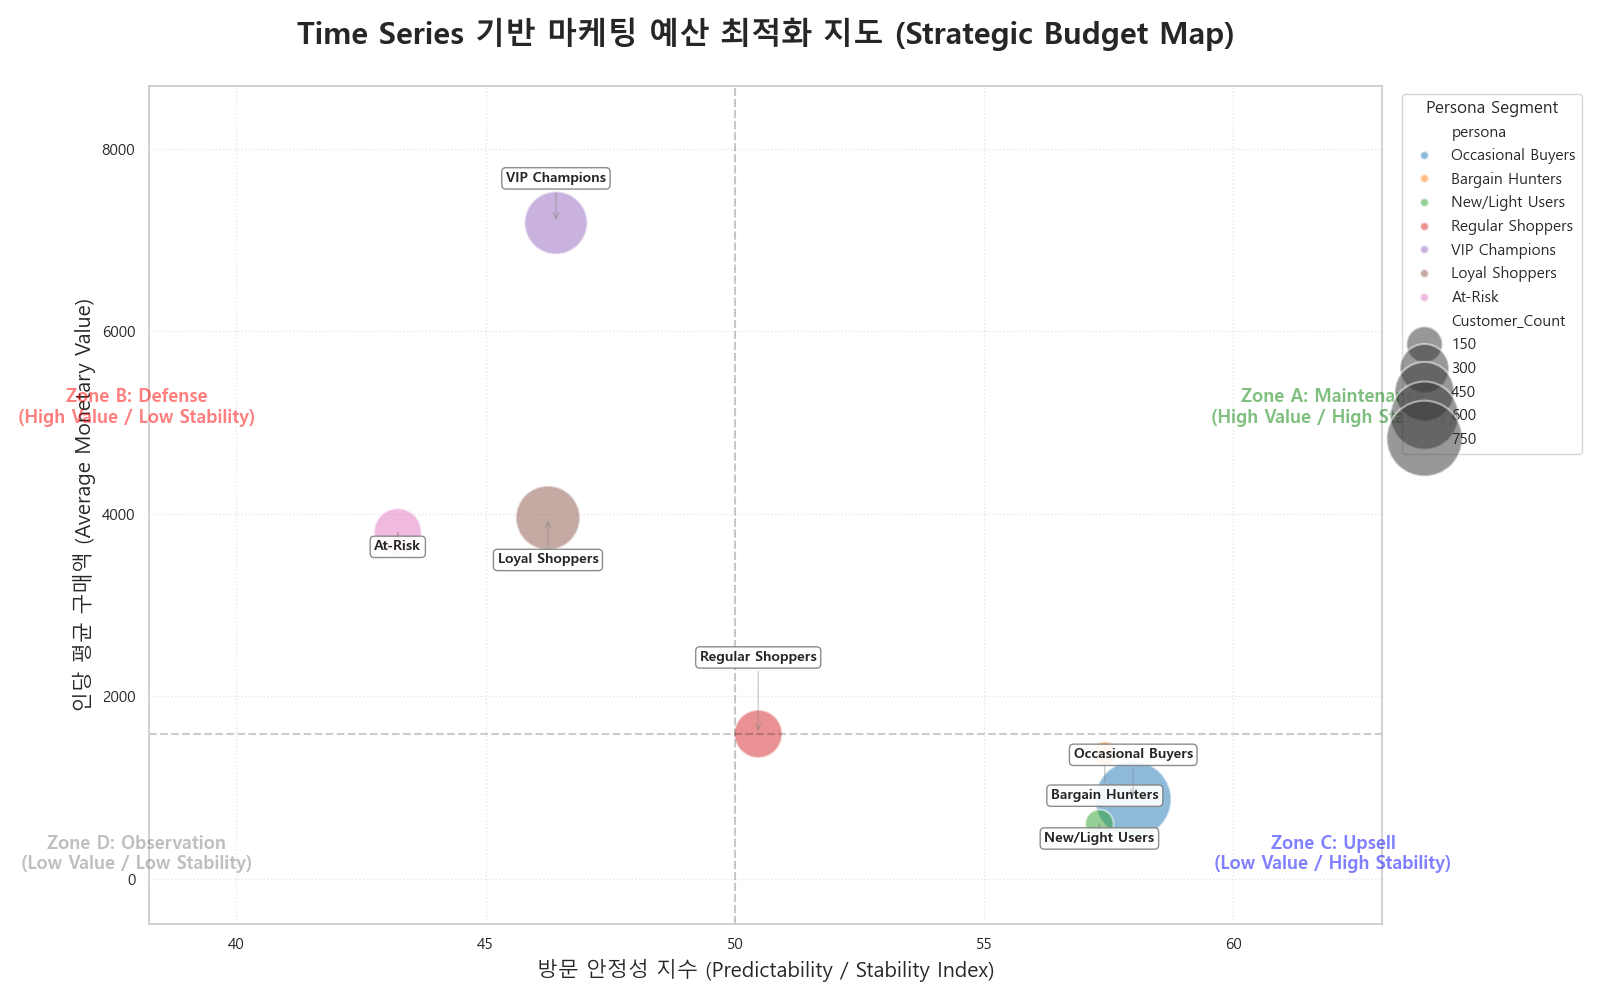
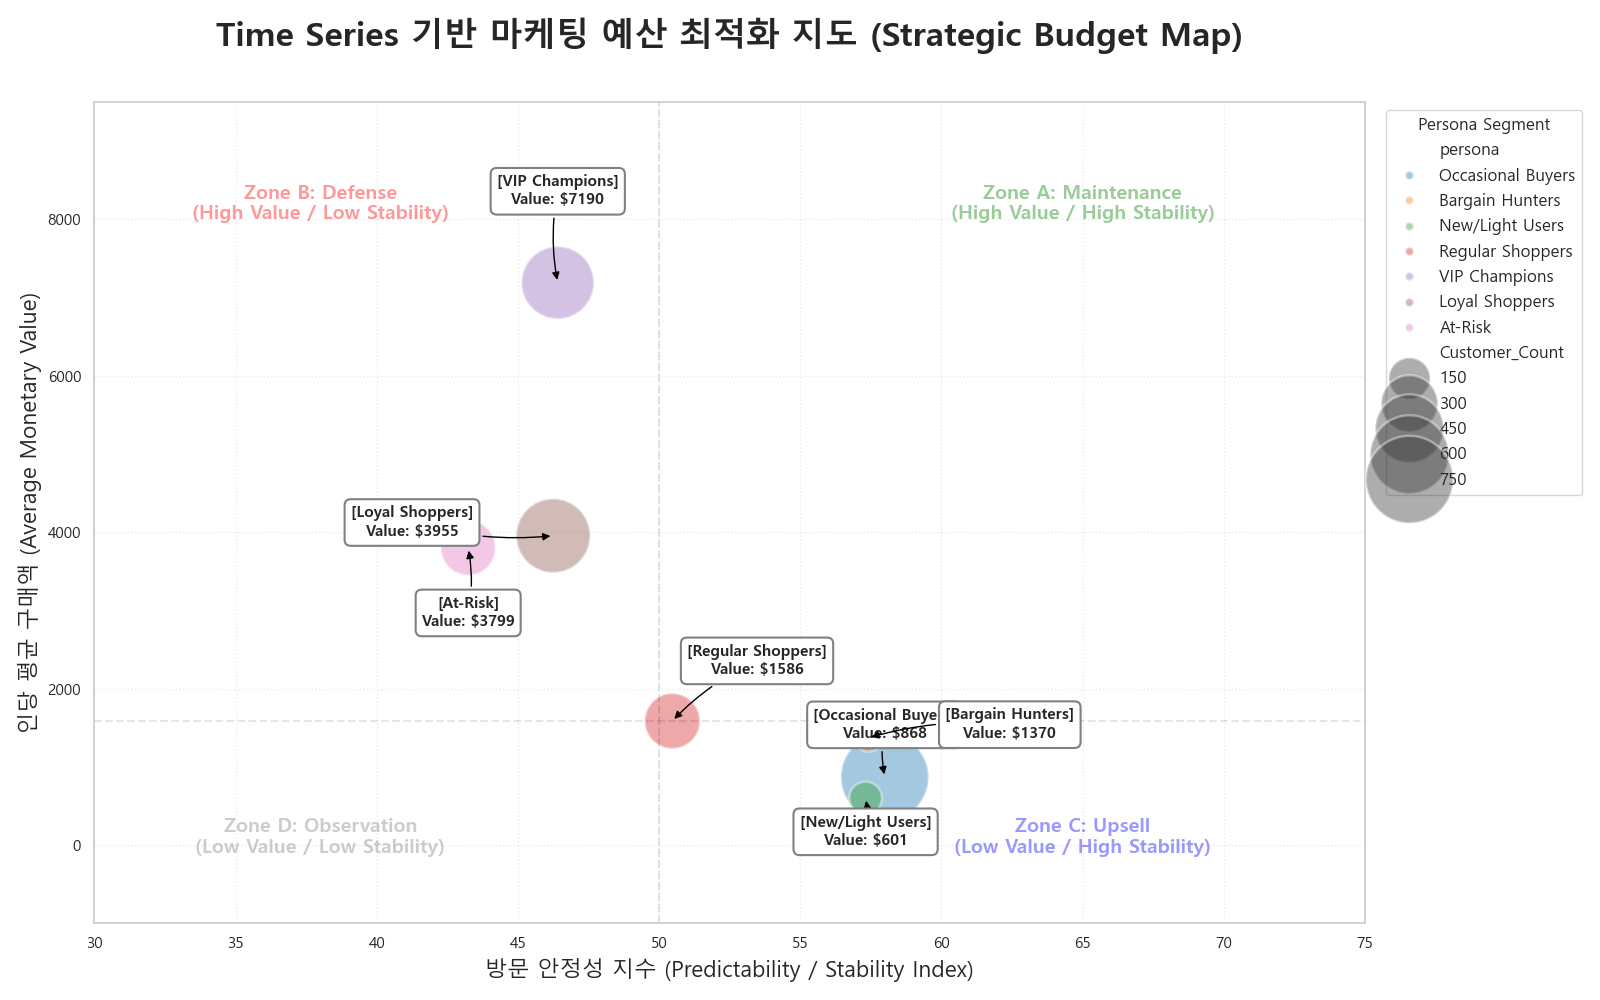
Fix TS Q3 (Manual Collision Fix): Precision label staggering and methodological clarification (Purchase-based IPT)

diff --git a/refine_ts_budget_map.py b/refine_ts_budget_map.py
@@ -33,58 +33,69 @@ plot_df = stability.merge(value_metrics, on='persona', how='inner')
 stab_mid = 50
 val_mid = plot_df['Avg_Value'].median()
 
-# 3. Plotting with Collision Avoidance
+# 3. Plotting with Absolute Collision Avoidance
 plt.figure(figsize=(16, 10))
 
 # Bubble transparency increased to see through overlaps
 ax = sns.scatterplot(data=plot_df, x='stability_index', y='Avg_Value', 
                 size='Customer_Count', hue='persona', 
-                sizes=(300, 3000), alpha=0.5, palette='tab10')
+                sizes=(400, 4000), alpha=0.4, palette='tab10')
 
 # Quadrant Lines
-plt.axvline(stab_mid, color='black', linestyle='--', alpha=0.2)
-plt.axhline(val_mid, color='black', linestyle='--', alpha=0.2)
+plt.axvline(stab_mid, color='black', linestyle='--', alpha=0.1)
+plt.axhline(val_mid, color='black', linestyle='--', alpha=0.1)
 
-# Strategic Zone Labels (Moved to corners to avoid overlap with data points)
-plt.text(62, 5000, "Zone A: Maintenance\n(High Value / High Stability)", 
-         fontsize=13, fontweight='bold', color='green', ha='center', alpha=0.5)
+# Strategic Zone Labels (Moved to extreme corners)
+plt.text(65, 8000, "Zone A: Maintenance\n(High Value / High Stability)", 
+         fontsize=14, fontweight='bold', color='green', ha='center', alpha=0.4)
 
-plt.text(38, 5000, "Zone B: Defense\n(High Value / Low Stability)", 
-         fontsize=13, fontweight='bold', color='red', ha='center', alpha=0.5)
+plt.text(38, 8000, "Zone B: Defense\n(High Value / Low Stability)", 
+         fontsize=14, fontweight='bold', color='red', ha='center', alpha=0.4)
 
-plt.text(62, 100, "Zone C: Upsell\n(Low Value / High Stability)", 
-         fontsize=13, fontweight='bold', color='blue', ha='center', alpha=0.5)
+plt.text(65, -100, "Zone C: Upsell\n(Low Value / High Stability)", 
+         fontsize=14, fontweight='bold', color='blue', ha='center', alpha=0.4)
 
-plt.text(38, 100, "Zone D: Observation\n(Low Value / Low Stability)", 
-         fontsize=13, fontweight='bold', color='gray', ha='center', alpha=0.5)
+plt.text(38, -100, "Zone D: Observation\n(Low Value / Low Stability)", 
+         fontsize=14, fontweight='bold', color='gray', ha='center', alpha=0.4)
 
-# 4-Tier Vertical Staggering for Labels (Proximity-Aware)
-plot_df_sorted = plot_df.sort_values('stability_index')
-y_offsets = [-200, -500, 450, 800] # Distinct vertical tracks for labels
+# Manual Staggering based on real data clusters
+# Cluster 1: At-Risk, Loyal, VIP (X=43~46)
+# Cluster 2: New/Light, Occasional, Bargain (X=57~58)
+manual_offsets = {
+    'VIP Champions': (0, 1000),     # Top center
+    'Loyal Shoppers': (-5, 0),      # Far left
+    'At-Risk': (0, -1000),          # Bottom center
+    'Regular Shoppers': (3, 600),   # Top right
+    'Bargain Hunters': (5, 0),      # Far right
+    'Occasional Buyers': (0, 500),  # Top
+    'New/Light Users': (0, -600)    # Bottom
+}
 
-for i, row in plot_df_sorted.reset_index(drop=True).iterrows():
-    y_off = y_offsets[i % len(y_offsets)]
+for i, row in plot_df.iterrows():
+    p = row['persona']
+    x_off, y_off = manual_offsets.get(p, (0, 0))
     
     plt.annotate(
-        f"{row['persona']}",
+        f"[{p}]\nValue: ${row['Avg_Value']:.0f}",
         xy=(row['stability_index'], row['Avg_Value']),
-        xytext=(row['stability_index'], row['Avg_Value'] + y_off),
-        fontsize=10, weight='bold', ha='center',
-        bbox=dict(boxstyle="round,pad=0.3", fc="white", ec="gray", alpha=0.9),
-        arrowprops=dict(arrowstyle="->", connectionstyle="arc3,rad=0.0", color='gray', alpha=0.4)
+        xytext=(row['stability_index'] + x_off, row['Avg_Value'] + y_off),
+        fontsize=11, weight='bold', ha='center',
+        bbox=dict(boxstyle="round,pad=0.4", fc="white", ec="gray", alpha=1.0, lw=1.5),
+        arrowprops=dict(arrowstyle="-|>", connectionstyle="arc3,rad=0.1", color='black', lw=1),
+        zorder=10
     )
 
-plt.title('Time Series 기반 마케팅 예산 최적화 지도 (Strategic Budget Map)', fontsize=22, fontweight='bold', pad=30)
-plt.xlabel('방문 안정성 지수 (Predictability / Stability Index)', fontsize=15)
-plt.ylabel('인당 평균 구매액 (Average Monetary Value)', fontsize=15)
-plt.grid(True, linestyle=':', alpha=0.5)
+plt.title('Time Series 기반 마케팅 예산 최적화 지도 (Strategic Budget Map)', fontsize=24, fontweight='bold', pad=40)
+plt.xlabel('방문 안정성 지수 (Predictability / Stability Index)', fontsize=16)
+plt.ylabel('인당 평균 구매액 (Average Monetary Value)', fontsize=16)
+plt.grid(True, linestyle=':', alpha=0.4)
 
-# Zoom out slightly for clearer margins
-plt.xlim(plot_df['stability_index'].min() - 5, plot_df['stability_index'].max() + 5)
-plt.ylim(-500, plot_df['Avg_Value'].max() + 1500)
+# Margin expansion for clear labels
+plt.xlim(30, 75)
+plt.ylim(-1000, 9500)
 
 # Legend adjustment
-plt.legend(title='Persona Segment', bbox_to_anchor=(1.01, 1), loc='upper left', fontsize=11)
+plt.legend(title='Persona Segment', bbox_to_anchor=(1.01, 1), loc='upper left', fontsize=12)
 plt.tight_layout()
 plt.savefig('final_reports/ts/plots/deep_dive/q3_budget_map.png')
 print("Saved tactical budget map to final_reports/ts/plots/deep_dive/q3_budget_map.png")

diff --git a/final_reports/ts/dunnhumby_ts_analysis_report.md b/final_reports/ts/dunnhumby_ts_analysis_report.md
@@ -148,7 +148,7 @@
 
 #### 1. 분석 방법론 (Methodology & Data)
 - **Analytical Logic (Strategic Matrix)**:
-    - **X축: 안정성 지수 (Stability Index)**: 고객의 방문 주기 예측 가능성. 100점에 가까울수록 매주 정해진 시간에 방문하는 '시계 같은 고객'입니다.
+    - **X축: 안정성 지수 (Stability Index)**: 고객의 방문 주기 예측 가능성. **실제 구매 트랜잭션 발생 간격(Inter-Purchase Time)**을 기준으로 산정되었습니다. 100점에 가까울수록 매주 정해진 시간에 구매를 위해 방문하는 '시계 같은 고객'입니다.
     - **Y축: 평균 가치 (Avg. Monetary)**: 인당 평균 구매액. 우리 매장의 매출 실적에 기여하는 정도를 나타냅니다.
     - **Bubble Size**: 각 페르소나에 속한 고객의 머릿수(Count)를 의미합니다.
 - **4대 전략 존 (Four Strategic Zones)**:
